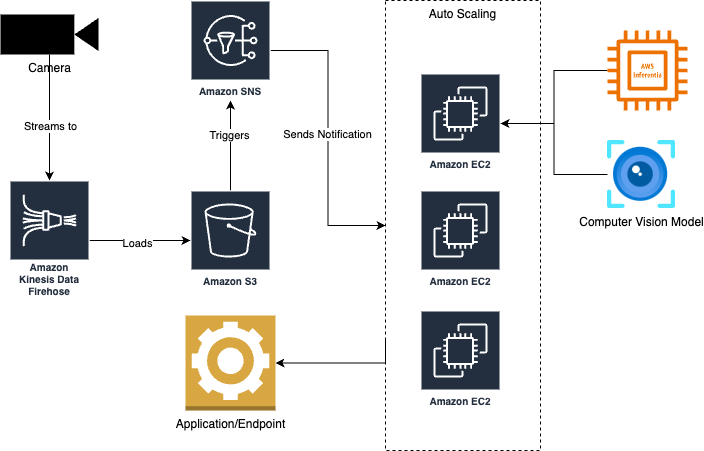
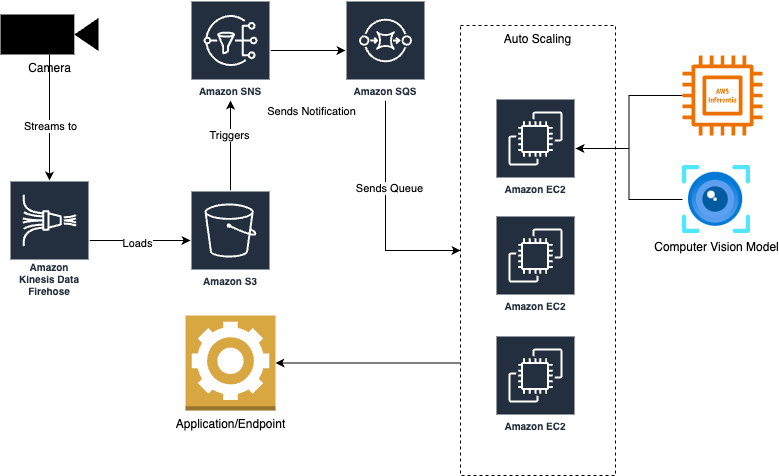
Update part 2

diff --git a/README.md b/README.md
@@ -51,6 +51,17 @@ Once I have gathered the information detailed above, I would suggest a few actio
 3. Data Storage Optimisation
 - As we will be storing huge volumes of data, due to processing footage in near real time, storage costs may inflate quickly if we don't monitor costs. Using S3 as our primary blob storage, we should ensure that lifecycle policies are in place to move old/archived video footage to lower-cost storage classes like S3 Glacier, or even just deleting them if persistence is not required.
 
+#### Extra Considerations
+1. Going Serverless (EC2 vs Lambda)
+- A serverless option could be considered if traffic arrives in period intervals and there is a low amount of total request to the Computer Vision model.
+- However a limitation of using Lambda is that there is a cap on execution duration and resource allocation, requiring further optimisation
+- EC2 on the hand would require more frequent patching and instance upgrades since they are not managed services.
+2. Content Delivery Network (CDN)
+- If video footage need to be frequently accessed by end-users, using a CDN service like Amazon Cloudfront could be considered to cache video data, especially if users want to rewind video footage to see the object/people detection.
+3. Batch Processing Frames
+- Instead of processing frames individually, processing frames in batches may prove more cost efficient, especially with dealing with highly parallelizable task such as image processing. We can utilise services like AWS Batch for managing batch processing workloads.
+4. Consideration of SNS and SQS
+
 #### High Level Architecture
 With all the information gathered and the suggestions above, the high level solution diagram below should highlight what the architecture might look like.
 
